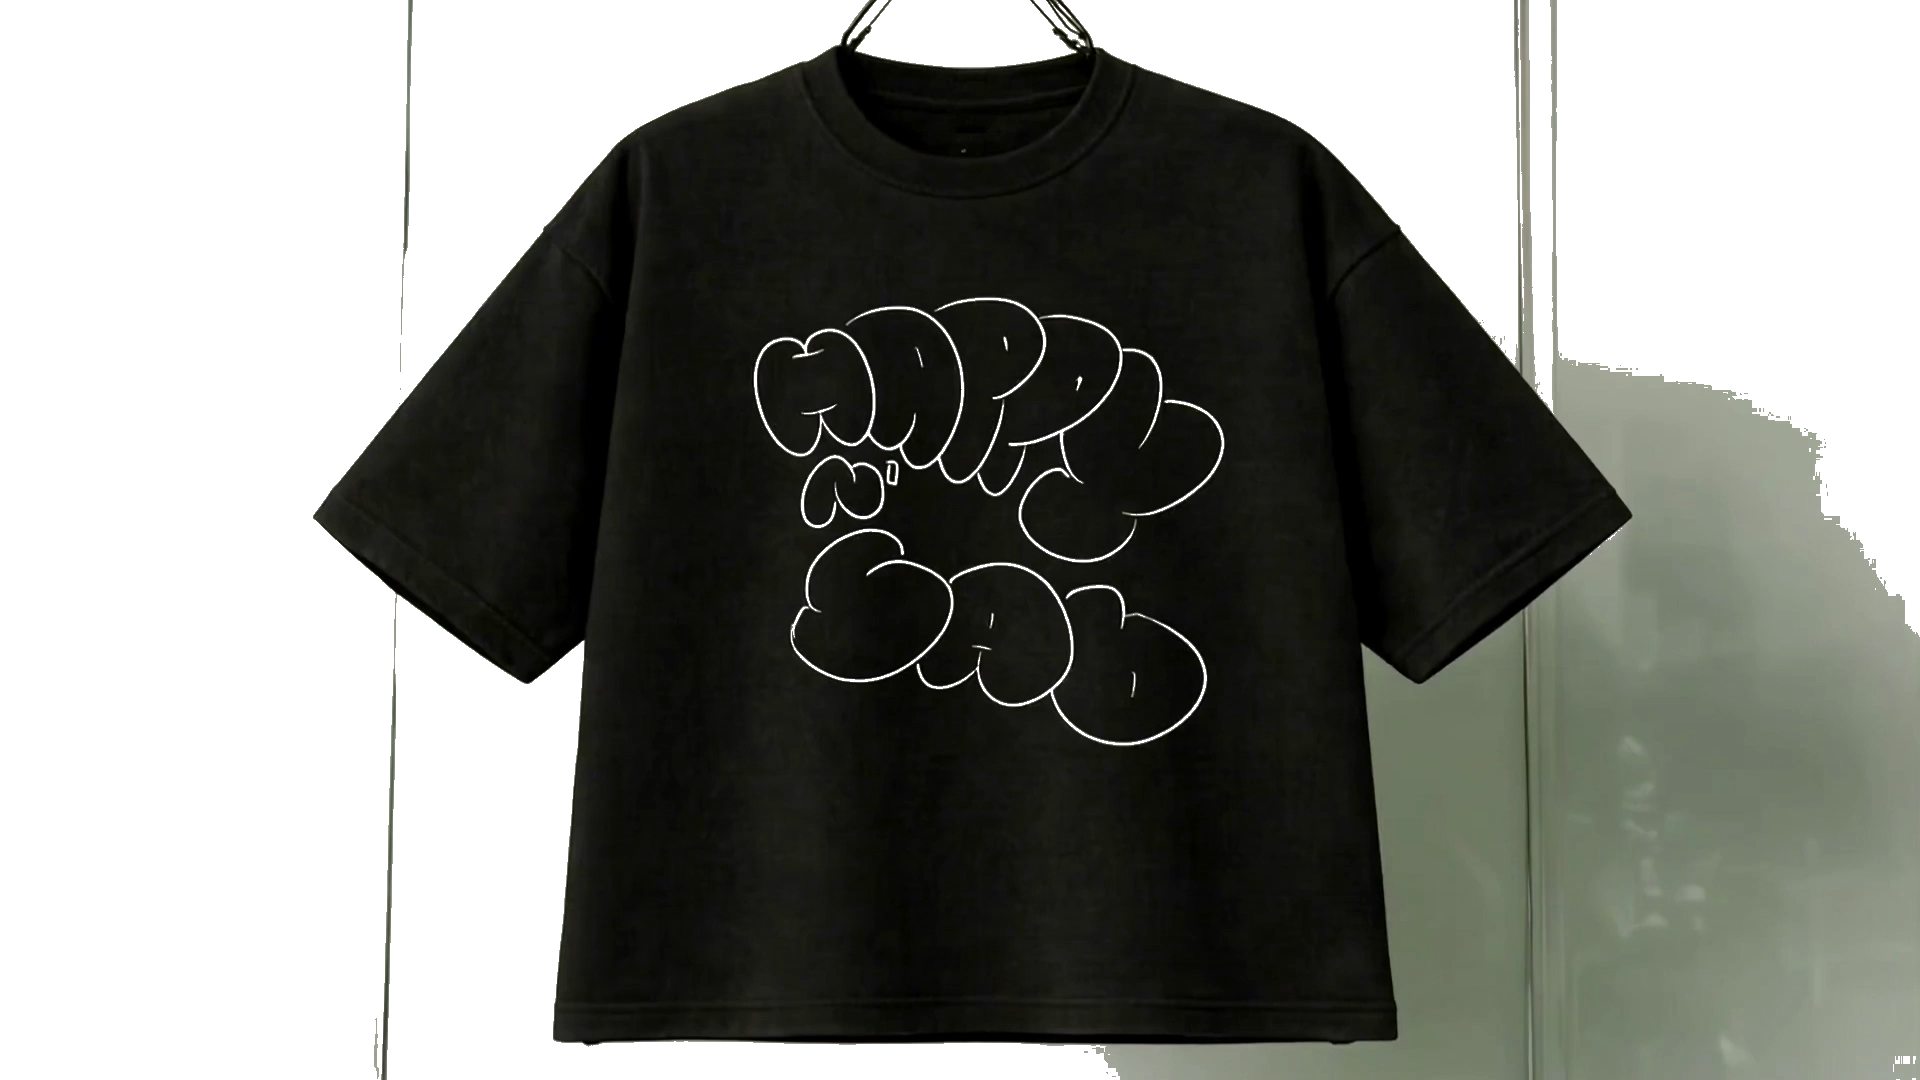
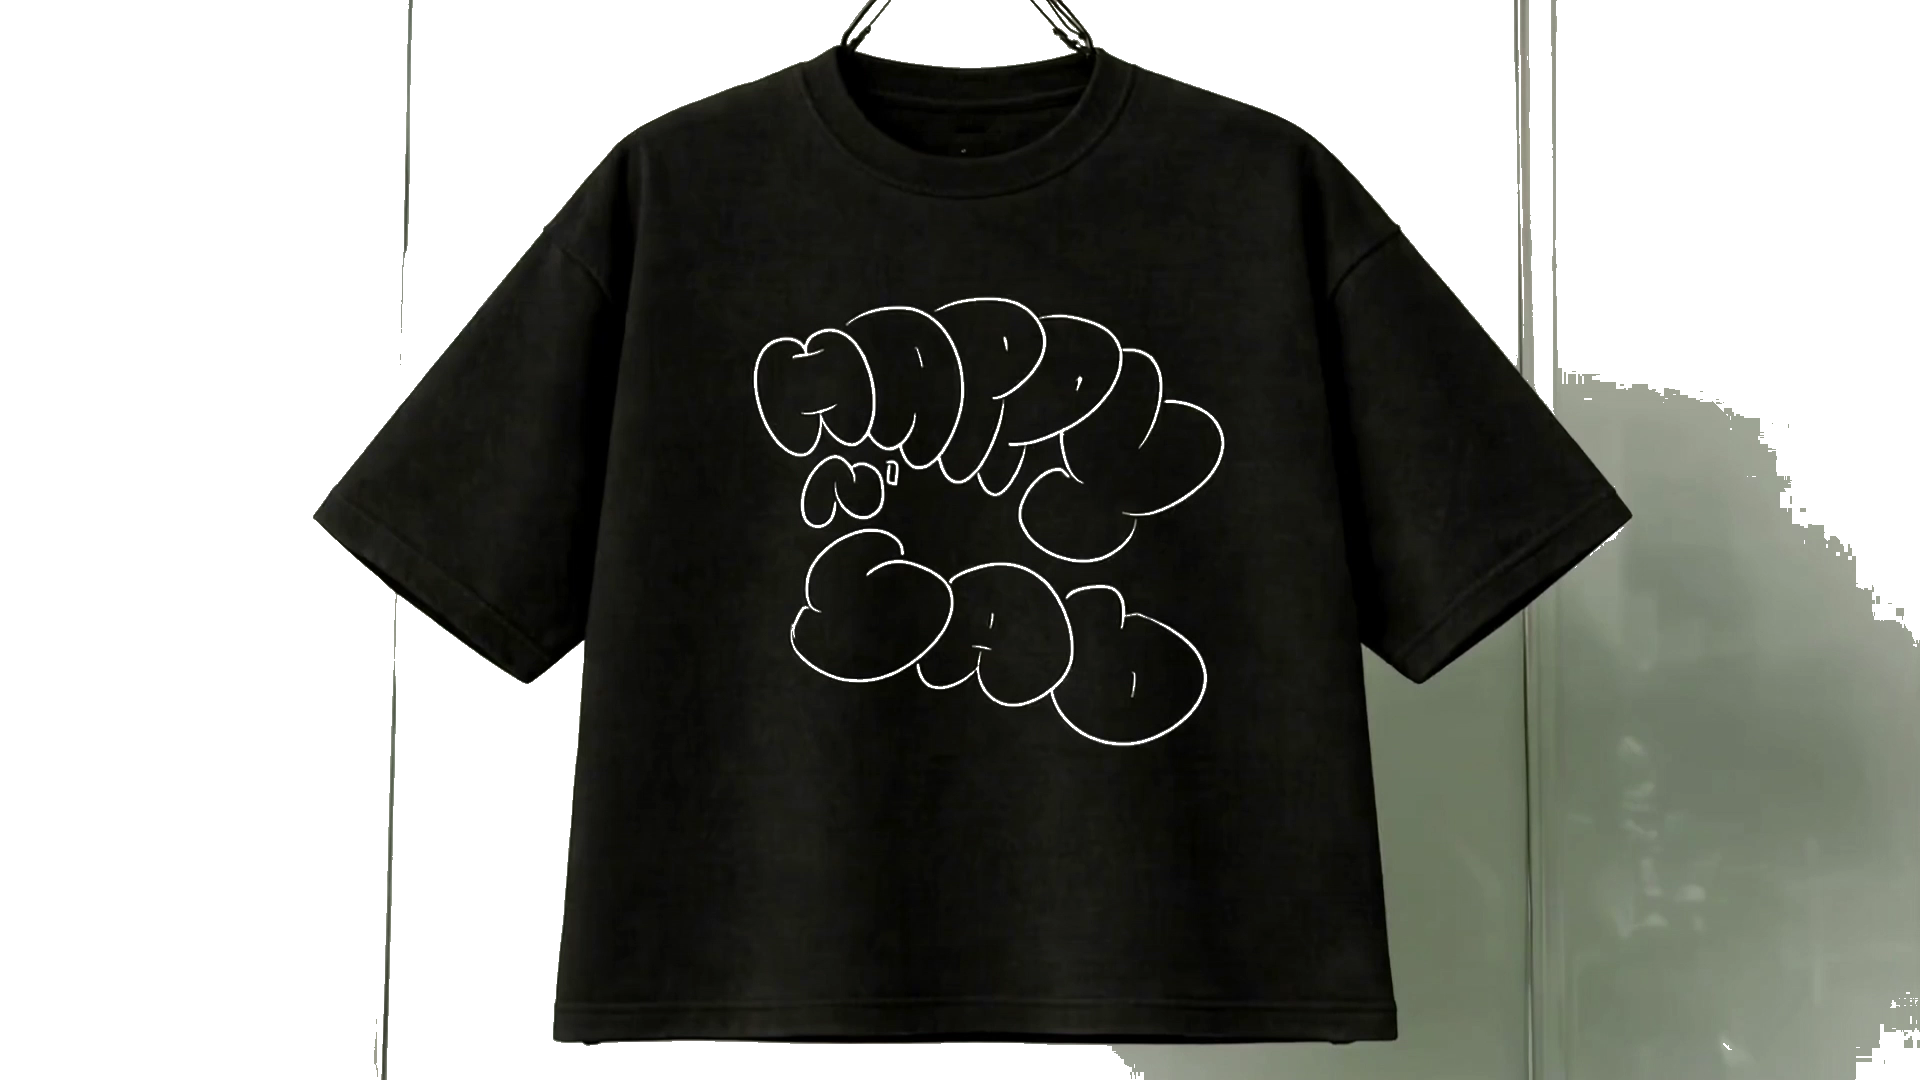
Fix white BG removal — preserve white graphics on shirt
Use minChannel threshold (0.58) instead of average brightness.
Only discards pixels where ALL channels are bright (neutral gray/white BG).
Preserves white elements on the garment (bear graphic, text).

diff --git a/src/components/VideoGarment.jsx b/src/components/VideoGarment.jsx
@@ -10,14 +10,17 @@ const vertShader = `
     gl_Position = projectionMatrix * modelViewMatrix * vec4(position, 1.0);
   }
 `
-// Removes WHITE background
+// Removes WHITE/GRAY background — high threshold to preserve white graphics on shirt
 const whiteKeyFrag = `
   uniform sampler2D map;
   varying vec2 vUv;
   void main() {
     vec4 color = texture2D(map, vUv);
-    float avg = (color.r + color.g + color.b) / 3.0;
-    if (avg > 0.62) discard;
+    float minC = min(color.r, min(color.g, color.b));
+    // Only discard pixels where ALL channels are very bright (near-white BG)
+    // This preserves white graphics on the shirt because they have slight
+    // color variation and shadows from the fabric texture
+    if (minC > 0.58) discard;
     gl_FragColor = vec4(color.rgb, 1.0);
   }
 `
